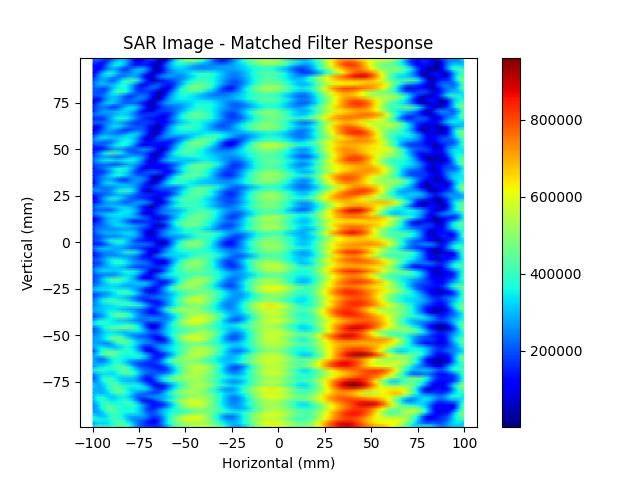
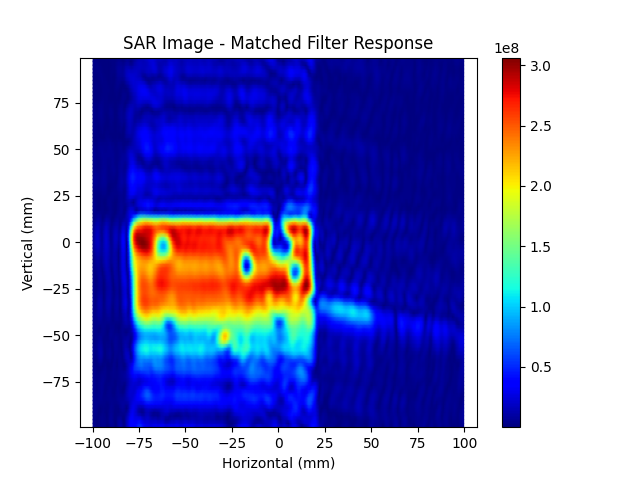
Added cranidetect SAR imaging

diff --git a/NeuroNauts/cranidetectSARgen.py b/NeuroNauts/cranidetectSARgen.py
@@ -1,0 +1,324 @@
+import os
+import numpy as np
+import matplotlib.pyplot as plt
+from scipy.fft import fft, fft2, ifft2, fftshift
+
+def load_data_cube(filename, samples, X, Y, option):
+    """
+    Load binary data and format into a 3D data cube.
+    Replicates loadDataCube.m behavior.
+    """
+    try:
+        with open(filename, 'rb') as f:
+            data_int = np.fromfile(f, dtype=np.int16)
+    except FileNotFoundError:
+        print(f"Error: File not found: {filename}")
+        return np.zeros((samples, Y, X), dtype=np.complex128)
+
+    chunk_size = samples * 4
+    input_length = len(data_int)
+    w = 1
+
+    # Format data as I1+Q1, I2+Q2, etc.
+    # MATLAB: 1:4:end corresponds to 0::4 in Python
+    # MATLAB: 1:8:end corresponds to 0::8 in Python
+    # MATLAB: 5:8:end corresponds to 4::8 in Python
+    
+    # bindata initialization
+    # In MATLAB: bindata = zeros(inputlength / 2, 1);
+    # We can just compute the complex values directly.
+    
+    # data_int is 1D array.
+    # I1 = data_int[0::8], Q1 = data_int[4::8]
+    # I2 = data_int[1::8], Q2 = data_int[5::8]
+    # ...
+    
+    # We need to construct bindata which has length input_length / 2.
+    # bindata has 4 interleaved channels.
+    # Channel 1: indices 0, 4, 8... in bindata
+    # Channel 2: indices 1, 5, 9... in bindata
+    
+    # Let's construct the channels first
+    ch1 = data_int[0::8] + 1j * data_int[4::8]
+    ch2 = data_int[1::8] + 1j * data_int[5::8]
+    ch3 = data_int[2::8] + 1j * data_int[6::8]
+    ch4 = data_int[3::8] + 1j * data_int[7::8]
+    
+    # Now we need to select based on option.
+    # The MATLAB code constructs 'bindata' interleaving these, then slices 'bindata'.
+    # But we can just select the channel directly since we know the pattern.
+    
+    # MATLAB:
+    # option 1: slice = bindata(start_idx:4:end_idx) -> This corresponds to Channel 1
+    # option 2: slice = bindata(start_idx+1:4:end_idx) -> This corresponds to Channel 2
+    # ...
+    
+    if option == 1:
+        full_channel_data = ch1
+    elif option == 2:
+        full_channel_data = ch2
+    elif option == 3:
+        full_channel_data = ch3
+    elif option == 4:
+        full_channel_data = ch4
+    elif option == 5:
+        full_channel_data = (ch1 + ch2 + ch3 + ch4) / 4
+    else:
+        raise ValueError(f"Invalid option: {option}")
+
+    data_cube = np.zeros((samples, Y, X), dtype=np.complex128)
+
+    # Populate data_cube
+    # Note: In mainSARORIGINAL, loadDataCube is called with Y=1.
+    # So the loop over y is just y=0 (0-indexed).
+    
+    for y in range(Y):
+        for x in range(X):
+            # MATLAB: start_idx = ((x - 1) * chunk_size) + 1; (1-based)
+            # Python: start_idx = x * samples (since chunk_size in MATLAB was samples*4, but that was for the raw int16 array? No.)
+            # Let's trace carefully.
+            # MATLAB: chunk_size = samples * 4; (This is in terms of int16 samples? No, bindata indices?)
+            # data_int length is N. bindata length is N/2.
+            # chunk_size in MATLAB seems to be number of elements in bindata per chirp?
+            # bindata has 4 channels interleaved.
+            # So for one chirp (one x, one y), we need 'samples' points per channel.
+            # So total points in bindata for one chirp is samples * 4.
+            # Correct.
+            
+            # So full_channel_data has length (N/2)/4 = N/8.
+            # Each chirp has 'samples' data points.
+            # So we just need to slice full_channel_data.
+            
+            start_idx = x * samples # For the current x
+            # Wait, if Y > 1, we need to account for y.
+            # In MATLAB: start_idx = ((x - 1) * chunk_size) + 1;
+            # It resets for every y loop?
+            # MATLAB:
+            # for y = 1:Y
+            #   for x = 1:X
+            #     start_idx = ((x - 1) * chunk_size) + 1;
+            #     slice = bindata(start_idx:4:end_idx);
+            
+            # This implies that for every y, it reads the SAME x chunks from the beginning of bindata?
+            # That seems wrong if the file contains multiple y scans.
+            # BUT, in mainSARORIGINAL, loadDataCube is called with Y=1.
+            # And the filename changes for every y in stack().
+            # So each file contains only 1 Y row (but X columns).
+            # So the logic holds: for a single file, we iterate x.
+            
+            # So for a given x, the data is at x * samples in the specific channel array.
+            
+            slice_data = full_channel_data[x*samples : (x+1)*samples]
+            
+            # Snake pattern logic
+            # MATLAB: if rem(y, 2) == 1 (odd) -> data_cube(:, y, x)
+            # else -> data_cube(:, y, X + 1 - x)
+            # Python y is 0-indexed. y=0 corresponds to MATLAB y=1 (odd).
+            # So if y % 2 == 0 (Python even, MATLAB odd) -> normal
+            
+            if (y + 1) % 2 == 1: # Odd in MATLAB terms
+                data_cube[:, y, x] = slice_data * w
+            else:
+                data_cube[:, y, X - 1 - x] = slice_data * w
+
+    return data_cube
+
+def stack(samples, X, Y, option, data_dir, filename_fn):
+    """
+    Load data cubes and stack them along the Y dimension.
+    """
+    # Initialize 3D array
+    # MATLAB: dataStack = zeros(samples, Y, X);
+    data_stack = np.zeros((samples, Y, X), dtype=np.complex128)
+    
+    for y in range(Y): # 0 to Y-1
+        # MATLAB y is 1-based. filename_fn expects 1-based index?
+        # mainSARORIGINAL: filenameFn = @(y) "scan" + y + "_Raw_0.bin";
+        # So we should pass y+1.
+        
+        filename = filename_fn(y + 1)
+        filepath = os.path.join(data_dir, filename)
+        
+        # loadDataCube called with Y=1
+        # MATLAB: loadDataCube(filepath, samples, X, 1, option)
+        # Returns (samples, 1, X)
+        cube = load_data_cube(filepath, samples, X, 1, option)
+        
+        # Assign to data_stack
+        # MATLAB: dataStack(:, y, :) = ...
+        data_stack[:, y, :] = cube[:, 0, :]
+        
+    return data_stack
+
+def create_matched_filter(x_point_m, x_step_m, y_point_m, y_step_m, z_target):
+    """
+    Creates Matched Filter.
+    """
+    f0 = 77e9
+    c = 299792458.0 # physconst('lightspeed')
+    
+    # Coordinates
+    # MATLAB: x = xStepM * (-(xPointM-1)/2 : (xPointM-1)/2) * 1e-3;
+    # Python: np.arange(-(x_point_m-1)/2, (x_point_m-1)/2 + 0.1) ?
+    # Let's use linspace or arange carefully.
+    # (-(xPointM-1)/2 : (xPointM-1)/2) generates xPointM points centered at 0.
+    
+    x_vec = x_step_m * np.arange(-(x_point_m-1)/2, (x_point_m-1)/2 + 1) * 1e-3
+    y_vec = y_step_m * np.arange(-(y_point_m-1)/2, (y_point_m-1)/2 + 1) * 1e-3
+    
+    # Create meshgrid
+    # MATLAB: x and y are vectors, then used in sqrt(x.^2 + y.^2 ...)
+    # MATLAB implicit expansion or meshgrid.
+    # We need 2D arrays.
+    # Note: MATLAB 'y' vector is transposed: y = (...).' 
+    # So y is column vector, x is row vector.
+    # x.^2 + y.^2 creates a grid.
+    
+    X_grid, Y_grid = np.meshgrid(x_vec, y_vec) 
+    # meshgrid(x, y) returns X with rows=y, cols=x. 
+    # So X_grid varies along columns, Y_grid varies along rows.
+    # This matches MATLAB's implicit expansion of row-vec + col-vec.
+    
+    z0 = z_target * 1e-3
+    
+    k = 2 * np.pi * f0 / c
+    matched_filter = np.exp(-1j * 2 * k * np.sqrt(X_grid**2 + Y_grid**2 + z0**2))
+    
+    return matched_filter
+
+def reconstruct_sar_image(sar_data, matched_filter, x_step_m, y_step_m, xy_size_t):
+    """
+    Reconstruct SAR image.
+    """
+    # sarData: yPointM x xPointM
+    y_point_m, x_point_m = sar_data.shape
+    y_point_f, x_point_f = matched_filter.shape
+    
+    # Zero Padding
+    # We need to pad sar_data to match matched_filter (or vice versa, usually filter is larger or same)
+    # The MATLAB code handles both cases.
+    
+    # Pad X
+    if x_point_f > x_point_m:
+        pad_pre = int(np.floor((x_point_f - x_point_m) / 2))
+        pad_post = int(np.ceil((x_point_f - x_point_m) / 2))
+        sar_data = np.pad(sar_data, ((0, 0), (pad_pre, pad_post)), 'constant')
+    else:
+        pad_pre = int(np.floor((x_point_m - x_point_f) / 2))
+        pad_post = int(np.ceil((x_point_m - x_point_f) / 2))
+        matched_filter = np.pad(matched_filter, ((0, 0), (pad_pre, pad_post)), 'constant')
+        
+    # Pad Y
+    if y_point_f > y_point_m:
+        pad_pre = int(np.floor((y_point_f - y_point_m) / 2))
+        pad_post = int(np.ceil((y_point_f - y_point_m) / 2))
+        sar_data = np.pad(sar_data, ((pad_pre, pad_post), (0, 0)), 'constant')
+    else:
+        pad_pre = int(np.floor((y_point_m - y_point_f) / 2))
+        pad_post = int(np.ceil((y_point_m - y_point_f) / 2))
+        matched_filter = np.pad(matched_filter, ((pad_pre, pad_post), (0, 0)), 'constant')
+        
+    # FFT
+    sar_data_fft = fft2(sar_data)
+    matched_filter_fft = fft2(matched_filter)
+    
+    # Multiply and IFFT
+    sar_image = fftshift(ifft2(sar_data_fft * matched_filter_fft))
+    
+    # Crop
+    y_point_t, x_point_t = sar_image.shape
+    
+    x_range_t = x_step_m * np.arange(-(x_point_t-1)/2, (x_point_t-1)/2 + 1)
+    y_range_t = y_step_m * np.arange(-(y_point_t-1)/2, (y_point_t-1)/2 + 1)
+    
+    # Indices
+    ind_x = (x_range_t > -xy_size_t/2) & (x_range_t < xy_size_t/2)
+    ind_y = (y_range_t > -xy_size_t/2) & (y_range_t < xy_size_t/2)
+    
+    # Apply crop
+    # np.ix_ constructs open meshes from multiple sequences
+    sar_image = sar_image[np.ix_(ind_y, ind_x)]
+    x_range_t = x_range_t[ind_x]
+    y_range_t = y_range_t[ind_y]
+    
+    return sar_image, x_range_t, y_range_t
+
+def main():
+    # Configuration
+    data_dir = os.path.join('Scan Data', 'sqplate(good)')
+    X = 400
+    Y = 40
+    samples = 512
+    
+    def filename_fn(y):
+        return f"scan{y}_Raw_0.bin"
+        
+    print("Loading data...")
+    raw_data = stack(samples, X, Y, 1, data_dir, filename_fn)
+    
+    # Parameters
+    n_fft_time = 1024
+    z0 = 323e-3
+    dx = 290/400
+    dy = 205/100 # Note: As per original MATLAB code
+    n_fft_space = 1024
+    
+    c = 299792458.0
+    fS = 9121e3
+    Ts = 1/fS
+    K = 63.343e12
+    
+    # Range FFT
+    print("Processing Range FFT...")
+    # MATLAB: fft(rawData, nFFTtime) -> operates on first dimension (samples)
+    raw_data_fft = fft(raw_data, n=n_fft_time, axis=0)
+    
+    # Range focusing
+    tI = 4.5225e-10
+    k_idx = int(round(K * Ts * (2 * z0 / c + tI) * n_fft_time))
+    
+    # Extract slice
+    # MATLAB: sarData = squeeze(rawDataFFT(k+1,:,:));
+    # Python: k_idx is 0-based.
+    sar_data = raw_data_fft[k_idx, :, :]
+    
+    # Create Matched Filter
+    print("Creating Matched Filter...")
+    matched_filter = create_matched_filter(n_fft_space, dx, n_fft_space, dy, z0*1e3)
+    
+    # Create SAR Image
+    print("Reconstructing SAR Image...")
+    im_size = 200
+    sar_image, x_axis, y_axis = reconstruct_sar_image(sar_data, matched_filter, dx, dy, im_size)
+    
+    # Plot
+    print("Plotting...")
+    plt.figure()
+    # MATLAB: mesh(xRangeT,yRangeT,abs(fliplr(sarImage))...)
+    # fliplr flips left/right (columns).
+    # We can use pcolormesh or imshow.
+    
+    # Note on orientation:
+    # MATLAB mesh(x, y, Z) plots Z against x and y.
+    # fliplr(sarImage) reverses the x-axis direction of the image content?
+    # Let's just plot abs(sar_image) and see.
+    # Usually we want to align with how MATLAB displays it.
+    
+    # MATLAB: fliplr(sarImage)
+    to_plot = np.abs(np.fliplr(sar_image))
+    
+    plt.pcolormesh(x_axis, y_axis, to_plot, cmap='jet', shading='gouraud')
+    plt.xlabel('Horizontal (mm)')
+    plt.ylabel('Vertical (mm)')
+    plt.title('SAR Image - Matched Filter Response')
+    plt.axis('equal')
+    plt.colorbar()
+    
+    # Save output
+    output_file = 'sar_image_python.png'
+    plt.savefig(output_file)
+    print(f"Saved image to {output_file}")
+    plt.show()
+
+if __name__ == "__main__":
+    main()
